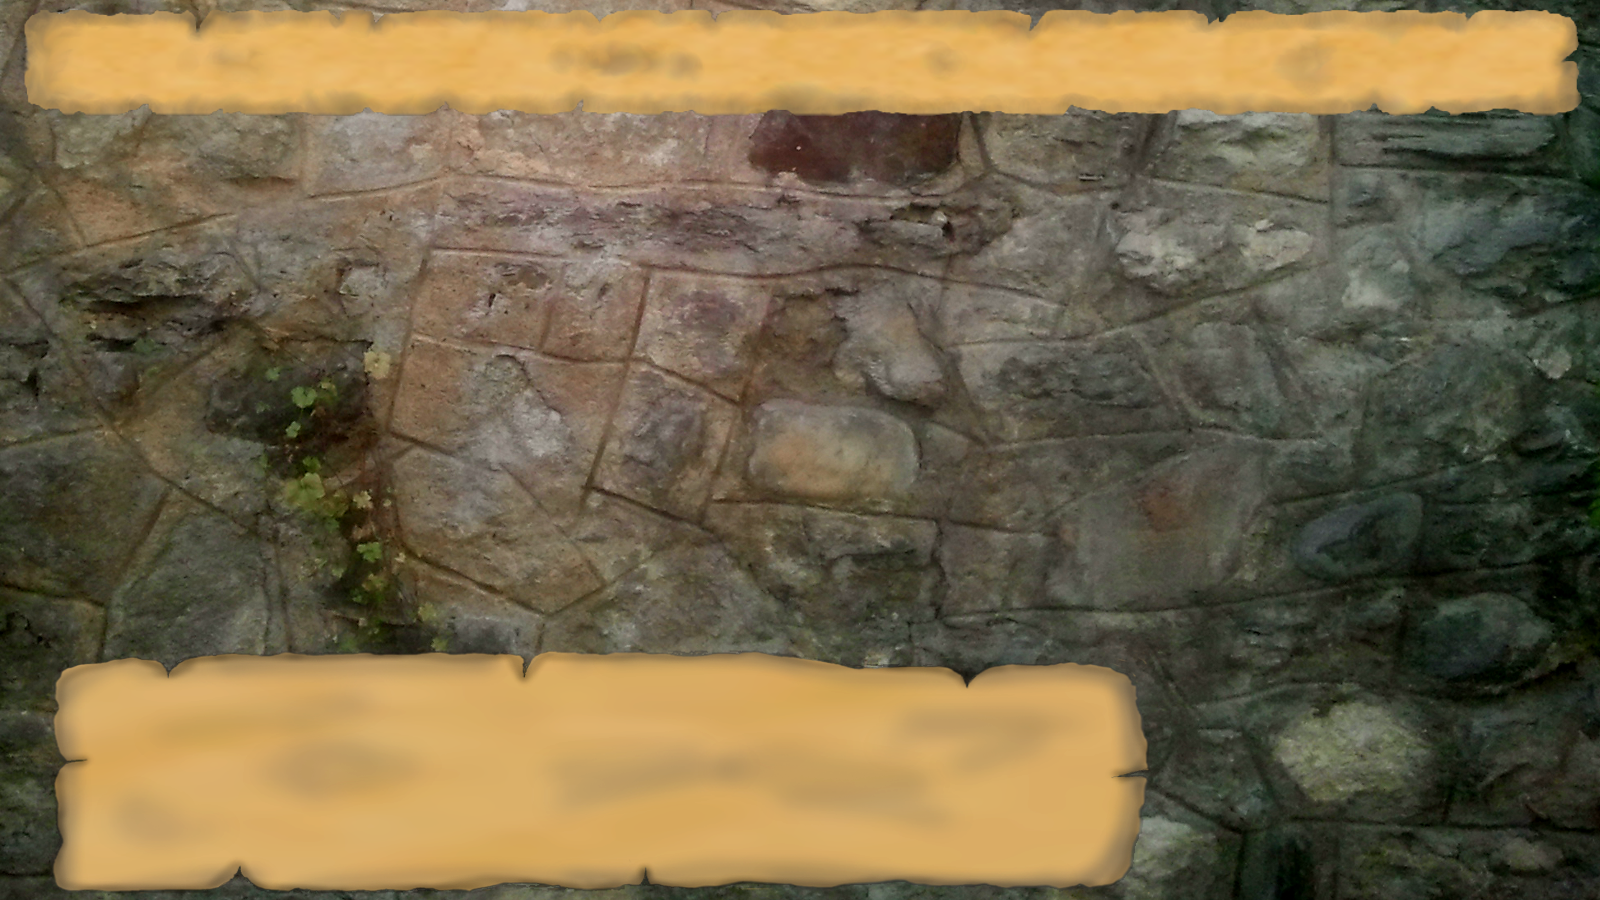
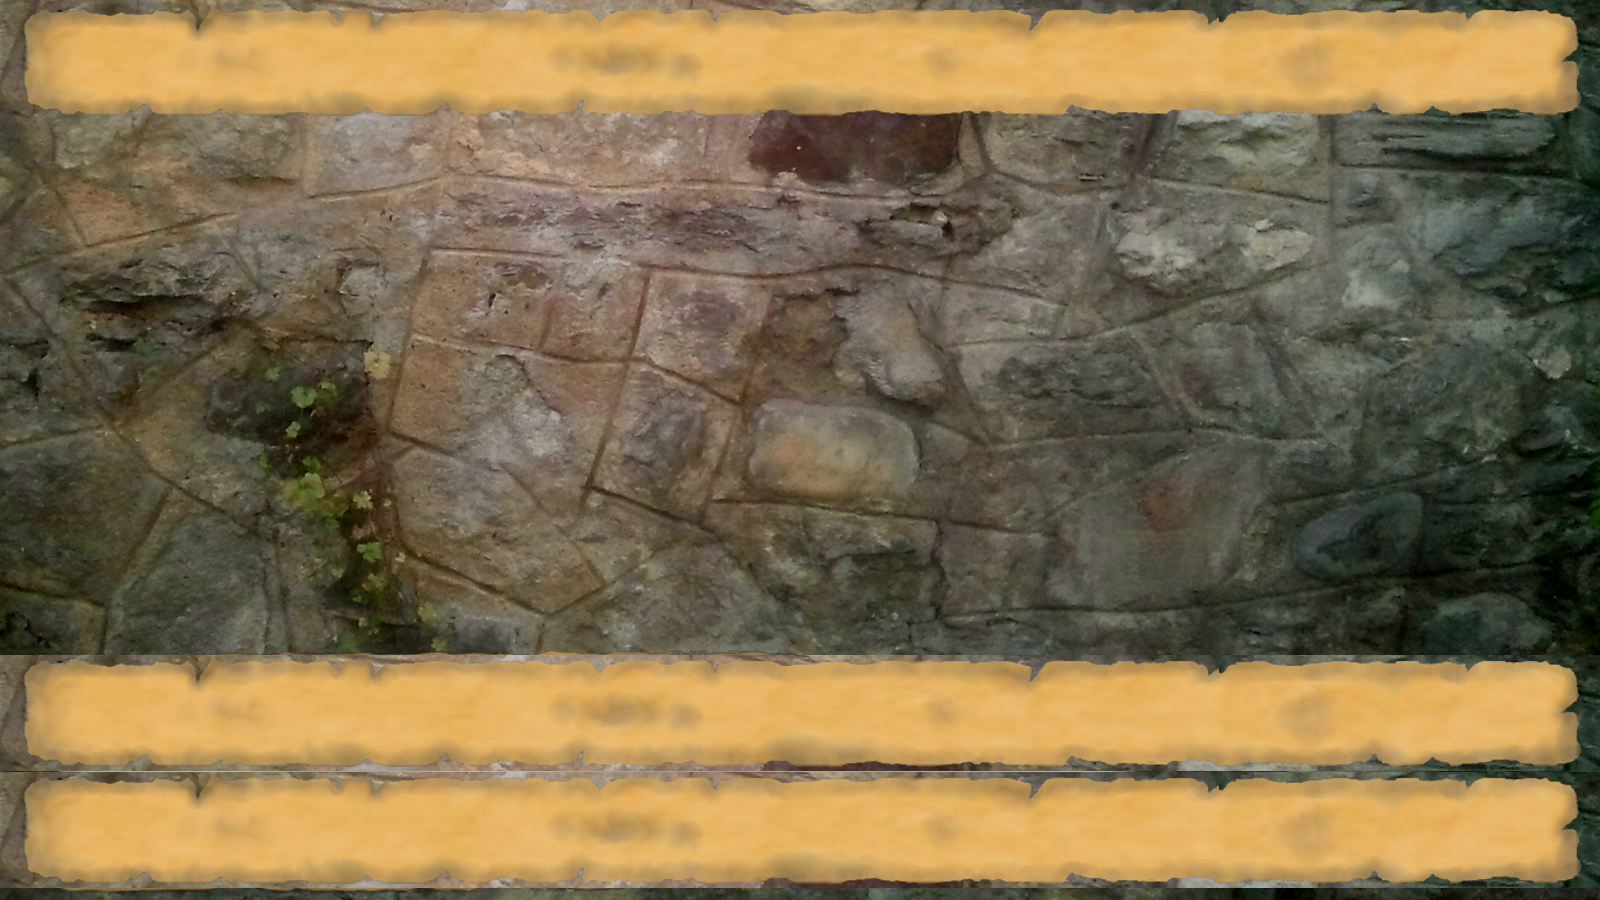
Stadt-/Produktionsansicht optisch an WinForms-Vorlage angeglichen
Vergleich der Produktionsansicht (Werkstaetten/Stadt) mit dem WinForms-
Original ergab zwei Abweichungen, beide behoben:

- Kopfzeile in der falschen Reihenfolge: jetzt wie im Original Taler
  links, Ort und Datum rechts (obere Zeile) und der Spielername samt Amt
  zentriert in einer zweiten Zeile darunter. Positionen aus dem WinForms-
  Designer (lbl_Taler, lbl_ortdatum, lbl_spielernameundamt) uebernommen.
  Das Kontor teilt dieselbe Kopfzeile und wurde entsprechend angeglichen.
- Fussbereich hatte nur ein schmales Pergament; das Original nutzt zwei
  volle Pergament-Banner (je eine Produktionszeile). BackgroundStadt.png
  neu zusammengesetzt (Kopf-Pergamentstreifen zweimal in den Fussbereich)
  und die beiden Produktionszeilen mittig auf die Streifen gesetzt.

Verifiziert per Vorschau-Render beider Ansichten (Stadt + Kontor) sowie
Build und Godot-Headless-Smoke. CHANGELOG (DE/EN) ergaenzt.

Changed region(s): [[0.0, 0.7156, 1.0, 0.9956], [0.375, 0.7778, 0.4062, 0.8089]]

diff --git a/CHANGELOG.md b/CHANGELOG.md
@@ -6,6 +6,9 @@ _Unreleased_
 
 ### [DE]
 
+#### Geändert
+- Stadt-/Produktionsansicht optisch an die WinForms-Vorlage angeglichen: Kopfzeile in der richtigen Reihenfolge (Taler links, Ort und Datum rechts, Spielername samt Amt zentriert in einer zweiten Zeile darunter) und im Fußbereich zwei volle Pergament-Banner statt eines schmalen – je Produktionszeile eines. Die Kopfzeile des Kontors wurde entsprechend angeglichen (gleiches Layout).
+
 #### Hinzugefügt
 - Stadtinformationen (Migration von StadtInformationen): In der Handelskarte öffnet ein Rechtsklick auf eine Stadt ein Pergament mit ihren Kenndaten – Reichtum (Münzen), Umsatzsteuer, Einwohner, Kriminalität (Dolche), Haupt-/Nebenproduktion, Nachfrage, mögliche Werkstätten und der farbig bewertete Lagerstand (rot/orange/grün) je Rohstoff; Rechtsklick schließt wieder. Die fehlenden Symbole (SymbCrime, SymbReichtum) und das Rohstoff-Icon Roh21 wurden aus dem WinForms-Client konvertiert.
 - Spieltipps zu Zugbeginn (Migration von TippsAnzeigen): ist die Option "Tipps anzeigen" aktiv, erscheint zu Beginn jedes Zugs ein zufälliger Spieltipp; über "Zurück"/"Weiter" lässt sich durch die Tipps blättern, der Rechtsklick schließt
@@ -69,6 +72,9 @@ _Unreleased_
 - In der Ämter-Ebene der Weltkarte wurden die Statussymbole (Konfession, Ehe, Sabotage/Spionage) viel zu groß dargestellt und überlappten – der TextureRect erzwang die native Texturgröße; jetzt werden sie wieder in ihrer vorgesehenen kleinen Größe angezeigt
 
 ### [EN]
+
+#### Changed
+- City/production view aligned visually with the WinForms original: header in the correct order (taler on the left, place and date on the right, player name incl. office centred on a second line below) and two full parchment banners at the bottom instead of one narrow one – one per production line. The Kontor header was aligned accordingly (same layout).
 
 #### Added
 - City information (migration of StadtInformationen): on the trade map, right clicking a city opens a parchment with its key data – wealth (coins), sales tax, population, crime (daggers), main/secondary production, demand, possible workshops and the colour-rated stock (red/orange/green) per resource; right click closes it again. The missing symbols (SymbCrime, SymbReichtum) and the resource icon Roh21 were converted from the WinForms client.
